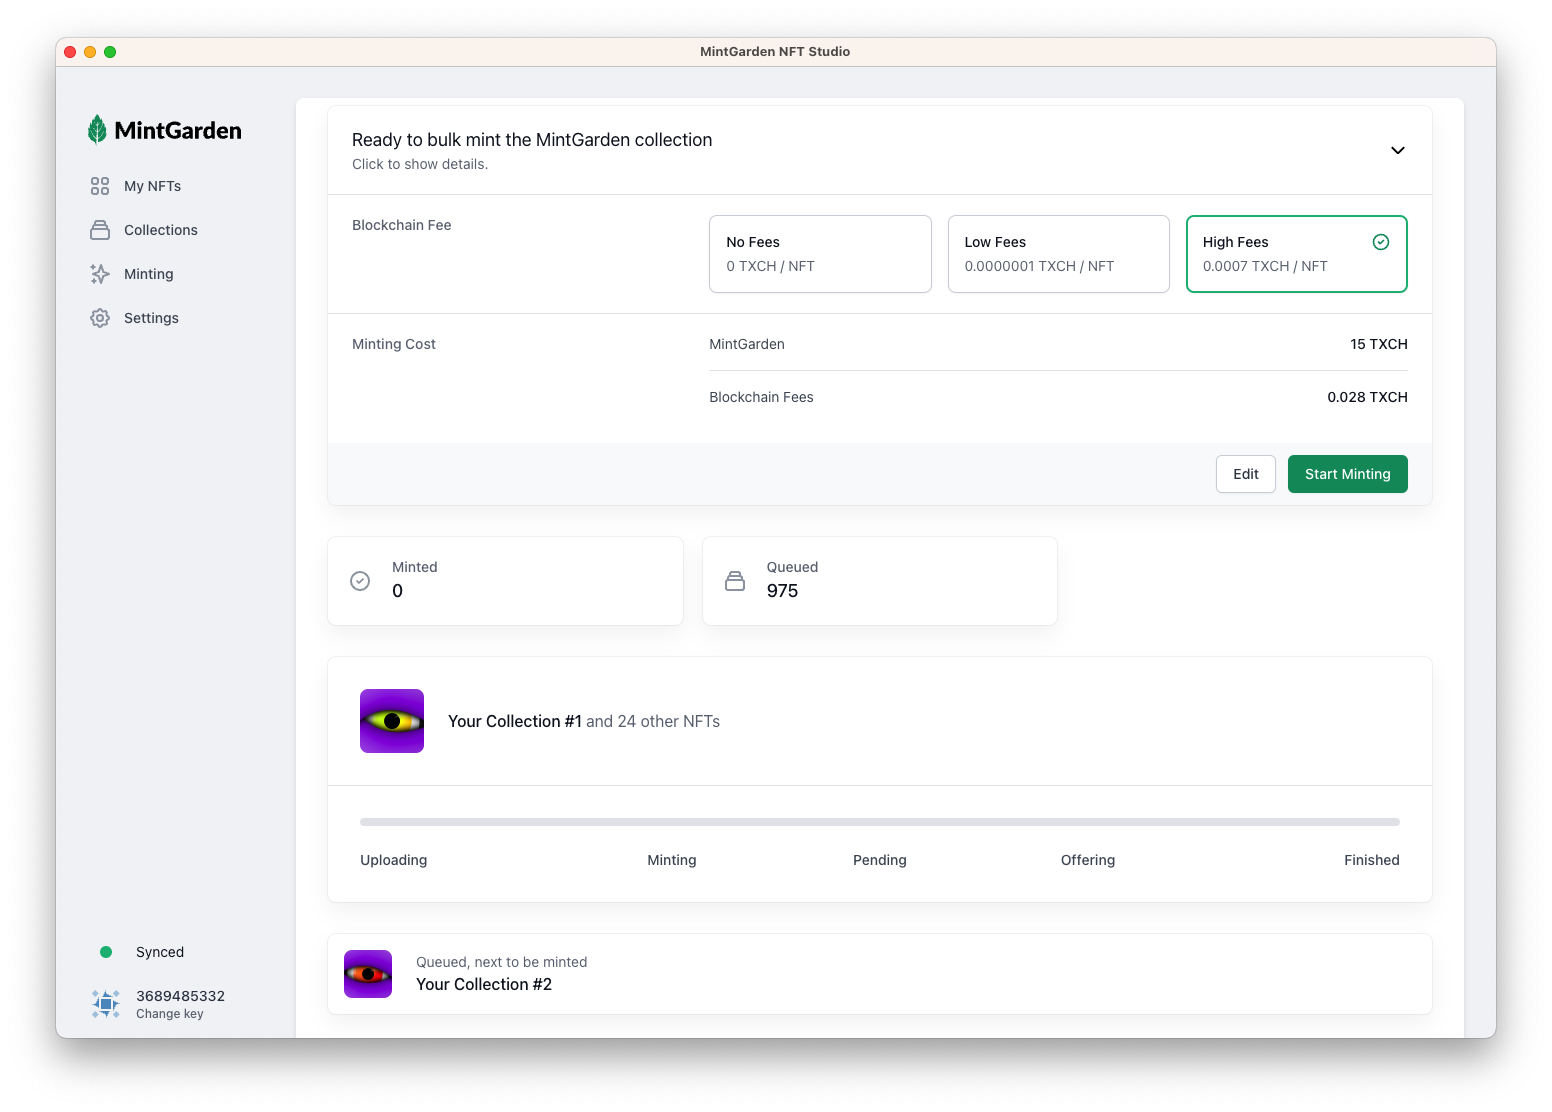
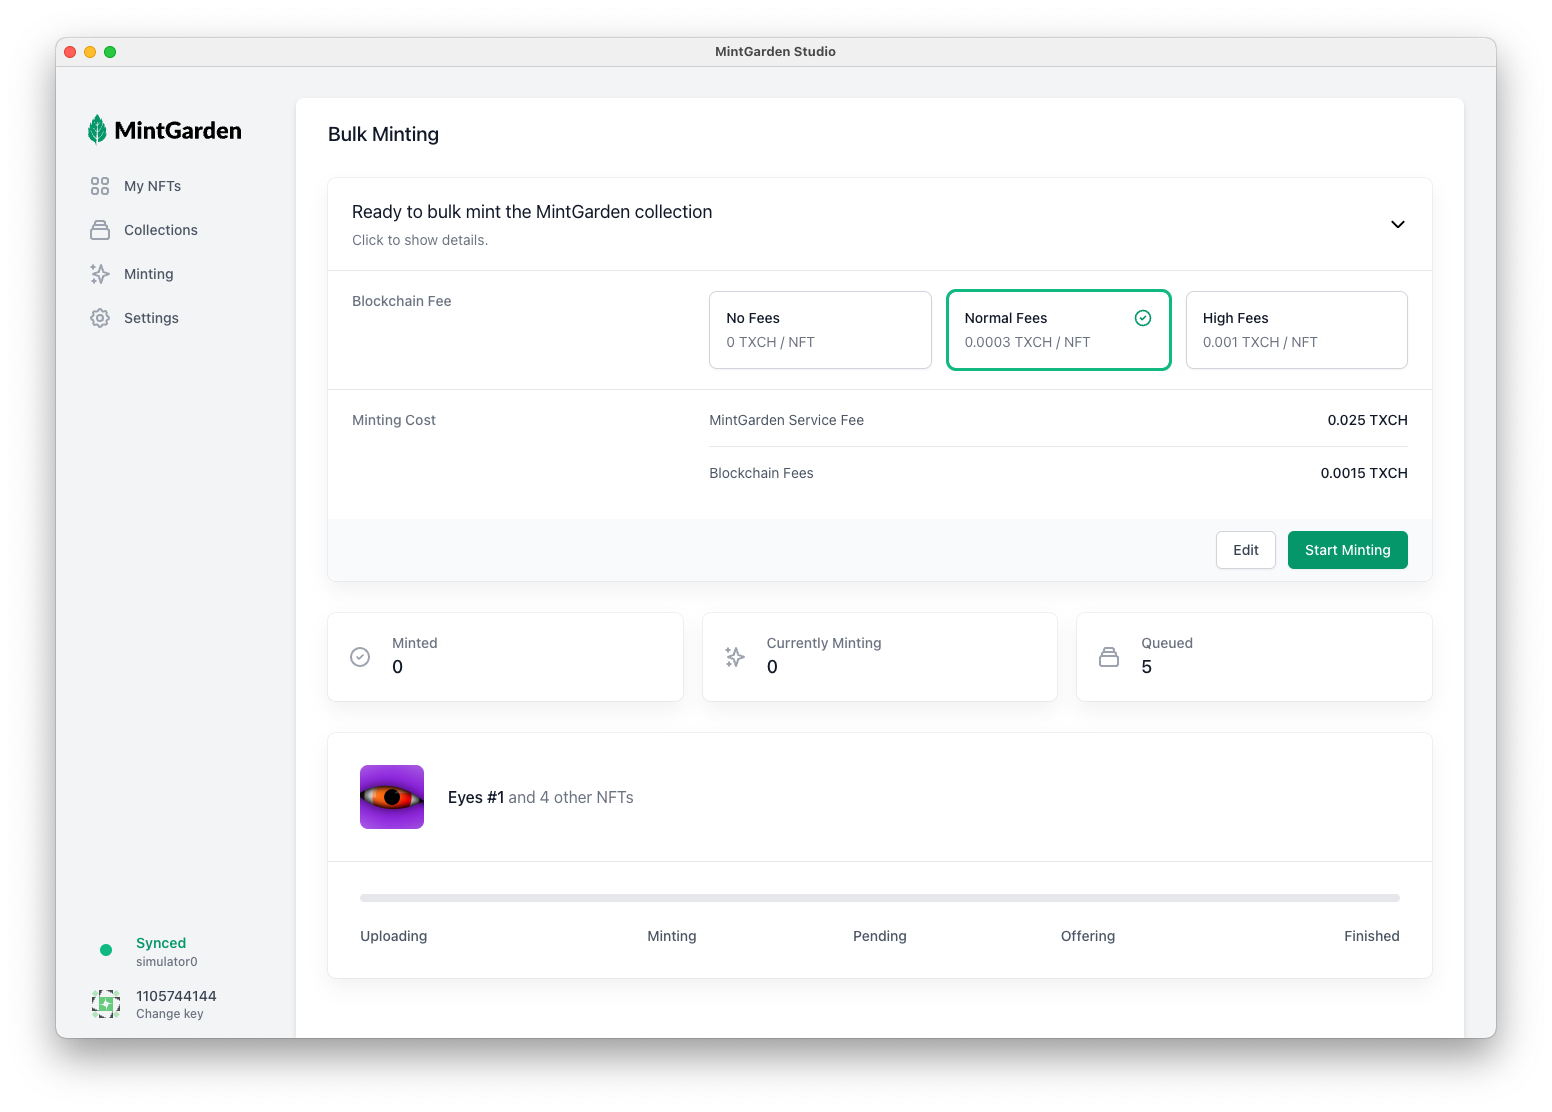
Update bulk mint docs with new images

diff --git a/docs/mintgarden-studio/bulk-mint-nfts.md b/docs/mintgarden-studio/bulk-mint-nfts.md
@@ -13,71 +13,26 @@ import TabItem from '@theme/TabItem';
 This guide describes how to bulk mint NFTs using the early access version
 of MintGarden Studio.
 
-![MintGarden Studio Minting Page](/img/bulk-mint-nft/wizard-3.png)
+![MintGarden Studio Minting Page](/img/bulk-mint-nft/wizard-1.png)
 
 <!--truncate-->
 
 ## Requirements
 
-1. [Chia Client 1.6.1 or newer](https://www.chia.net/downloads/) with a wallet set up.
-2. MintGarden Studio ([Early Access Version](https://mintgarden.io/mint))
+1. [Chia Client 2.1.4 or newer](https://www.chia.net/downloads/) with a wallet set up.
+2. The latest [MintGarden Studio](https://mintgarden.io/mint).
 3. A profile in the Chia Client. <br/> If you didn't create a profile yet, head over
    to [create a profile](/mintgarden-studio/create-a-profile).
-4. Some XCH for minting. You can get some from the [Chia Faucet](https://faucet.chia.net/).
+4. Some XCH for minting.
 
 ## Prepare the Mint
 
 Start with selecting `Minting` in the sidebar and then click the `Bulk Minting` button.
 
-### Step 1: Creator and Payment
+
+### Step 1: NFTs and attributes
 
 ![Bulk Minting Wizard Page 1](/img/bulk-mint-nft/wizard-1.png)
-
-#### Profile
-
-Select the profile you want to use for minting. This profile will be connected to the NFT and identifies you as the
-creator.
-
-#### Payment
-
-The bulk minting part of MintGarden Studio is a paid service. You have two options for payment
-
-1. You pay a flat fee per NFT upfront
-2. You pay a percentage of all future royalties to MintGarden.  
-   The splitting will be on chain and handled automatically.
-
-#### Royalty percentage
-
-One great feature of Chia NFTs is the automatic payment of royaties on secondary sales!
-
-For example, when you set `Royalty percentage` to 5% and your NFT sells for 1 XCH on the seconday market, you will
-automatically receive a payment of 0.05 XCH.
-
-### Step 2: Collection and Minting Strategy
-
-![Bulk Minting Wizard Page 2](/img/bulk-mint-nft/wizard-2-bulk.png)
-
-#### Collection
-
-You can assign this new NFT to a collection if you want to group your NFTs together.
-If you didn't create a collection yet, head over to [create a collection](/mintgarden-studio/create-a-collection).
-
-#### Minting Strategy
-
-There are two minting strategies available
-
-1. **Bulk Minting**: Mint the whole collection at once, in batches of 25 NFTs.   
-   If you enter a **Sale Price**, it will generate an offer file for you and put it on your computer.  
-   If you toggle **Upload to dexie.space**, the offer will automatically be uploaded to dexie as well.
-2. **Random Minting**: You determine a price for each NFT. We will generate a payment address for you.   
-   After you activate the minter, people can send NFTs to your payment address and pay the price you specified.
-   For each payment, the Studio will mint an NFT on demand and send this NFT back to the payment sender.
-
-Note that your computer has to be active while minting in both cases.
-
-### Step 3: NFTs and attributes
-
-![Bulk Minting Wizard Page 3](/img/bulk-mint-nft/wizard-3.png)
 
 Select the folder where your images and your metadata information are stored.
 
@@ -190,6 +145,51 @@ The Studio will show you a preview of all the NFTs and their metadata.
 
 When you're happy, click `Save and Continue`.
 
+### Step 2: Creator and Payment
+
+![Bulk Minting Wizard Page 2](/img/bulk-mint-nft/wizard-2.png)
+
+#### Profile
+
+Select the profile you want to use for minting. This profile will be connected to the NFT and identifies you as the
+creator.
+
+#### Payment
+
+The bulk minting part of MintGarden Studio is a paid service.
+You pay a flat fee per NFT upfront. 
+
+If you mint more than 100 pieces, a volume discount will be applied automatically.
+
+#### Royalties
+
+One great feature of Chia NFTs is the automatic payment of royaties on secondary sales!
+
+For example, when you set `Royalty percentage` to 5% and your NFT sells for 1 XCH on the seconday market, you will
+automatically receive a payment of 0.05 XCH.
+
+### Step 2: Collection and Minting Strategy
+
+![Bulk Minting Wizard Page 3](/img/bulk-mint-nft/wizard-3.png)
+
+#### Collection
+
+You can assign this new NFT to a collection if you want to group your NFTs together.
+If you didn't create a collection yet, head over to [create a collection](/mintgarden-studio/create-a-collection).
+
+#### Minting Strategy
+
+There are two minting strategies available
+
+1. **Bulk Minting**: Mint the whole collection at once, in batches of 25 NFTs.   
+   If you enter a **Sale Price**, it will generate an offer file for you and put it on your computer.  
+   If you toggle **Upload to dexie.space**, the offer will automatically be uploaded to dexie as well.
+2. **Random Minting**: You determine a price for each NFT. We will generate a payment address for you.   
+   After you activate the minter, people can send NFTs to your payment address and pay the price you specified.
+   For each payment, the Studio will mint an NFT on demand and send this NFT back to the payment sender.
+
+Note that your computer has to be active while minting in both cases.
+
 ## Run the Mint
 
 The MintGarden Studio will now show a summary of your mint. You can `Click to show details` at the top to expand more
@@ -199,8 +199,8 @@ details.
 
 #### Blockchain Fees
 
-Optionally set a blockchain fee if you want to speed up the minting process in times of a busy network.
-You can check [Spacescan](https://www.spacescan.io/xch/insight/mempool-size) to see the current mempool size.
+Set a blockchain fee if you want to speed up the minting process in times of a busy network.
+You will see a warning banner if your fees are deemed too low
 When the mempool size is close to 0, you can mint without fees.
 
 ### Start Minting
